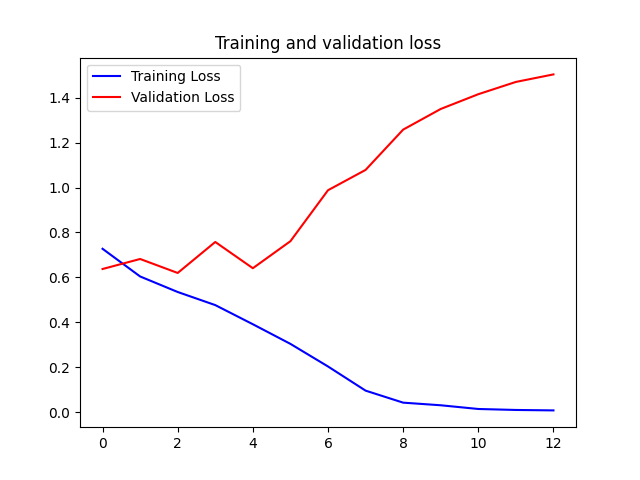
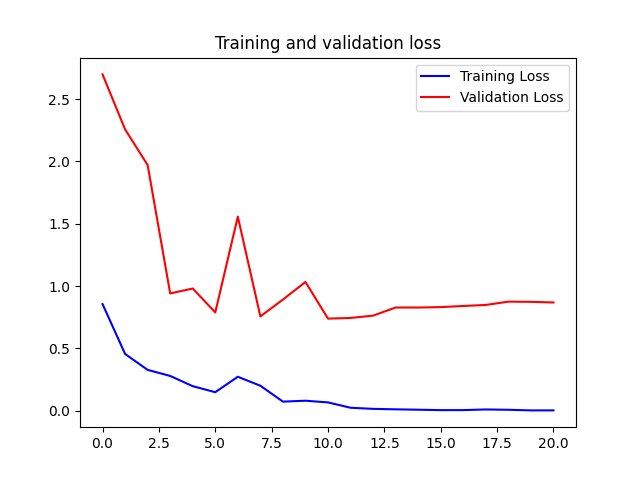
main - update README; update script;

diff --git a/run_all.py b/run_all.py
@@ -68,21 +68,51 @@ for with_data_augmentation in data_aug_train:
             batch_size=batch_size,
             shuffle=True,
             class_mode='binary')
-
-        # %%
+        #%%
         # Iniciar, construir e treinar o modelo
-        early_stop = EarlyStopping(
-            patience=10,
-            verbose=1,
-        )
-        learning_rate_reduction = ReduceLROnPlateau(
-            monitor='val_accuracy',
-            patience=2,
-            verbose=1,
-            factor=0.5,
-            min_lr=0.00001
-        )
-        callbacks = [early_stop, learning_rate_reduction]
+
+        # MLP
+        model_mlp = keras.Sequential([
+            keras.layers.Flatten(input_shape=(img_size, img_size, 3)),
+            keras.layers.Dense(512, activation='relu'),
+            keras.layers.Dense(1, activation='sigmoid')
+        ])
+
+        # CNN
+        model_cnn = keras.Sequential([
+            keras.layers.Conv2D(16, (3, 3), activation='relu', input_shape=(img_size, img_size, 3)),
+            keras.layers.MaxPool2D((2, 2)),
+
+            keras.layers.Conv2D(32, (3, 3), activation='relu'),
+            keras.layers.MaxPool2D((2, 2)),
+
+            keras.layers.Conv2D(64, (3, 3), activation='relu'),
+            keras.layers.MaxPool2D((2, 2)),
+
+            keras.layers.Flatten(),
+            keras.layers.Dense(512, activation='relu'),
+            keras.layers.Dense(1, activation='sigmoid')
+        ])
+
+        # CNN2
+        model_cnn2 = keras.Sequential([
+            keras.layers.Conv2D(16, (3, 3), activation='relu', input_shape=(img_size, img_size, 3)),
+            keras.layers.BatchNormalization(),
+            keras.layers.MaxPool2D((2, 2)),
+
+            keras.layers.Conv2D(32, (3, 3), activation='relu'),
+            keras.layers.BatchNormalization(),
+            keras.layers.MaxPool2D((2, 2)),
+
+            keras.layers.Conv2D(64, (3, 3), activation='relu'),
+            keras.layers.BatchNormalization(),
+            keras.layers.MaxPool2D((2, 2)),
+
+            keras.layers.Flatten(),
+            keras.layers.Dense(512, activation='relu'),
+            keras.layers.BatchNormalization(),
+            keras.layers.Dense(1, activation='sigmoid')
+        ])
 
         # CNN2_DPOT
         model_cnn2_dpout = keras.Sequential([
@@ -108,62 +138,33 @@ for with_data_augmentation in data_aug_train:
             keras.layers.Dense(1, activation='sigmoid')
         ])
 
-        # CNN2
-        model_cnn2 = keras.Sequential([
-            keras.layers.Conv2D(16, (3, 3), activation='relu', input_shape=(img_size, img_size, 3)),
-            keras.layers.BatchNormalization(),
-            keras.layers.MaxPool2D((2, 2)),
-
-            keras.layers.Conv2D(32, (3, 3), activation='relu'),
-            keras.layers.BatchNormalization(),
-            keras.layers.MaxPool2D((2, 2)),
-
-            keras.layers.Conv2D(64, (3, 3), activation='relu'),
-            keras.layers.BatchNormalization(),
-            keras.layers.MaxPool2D((2, 2)),
-
-            keras.layers.Flatten(),
-            keras.layers.Dense(512, activation='relu'),
-            keras.layers.BatchNormalization(),
-            keras.layers.Dense(1, activation='sigmoid')
-        ])
-
-        # CNN
-        model_cnn = keras.Sequential([
-            keras.layers.Conv2D(16, (3, 3), activation='relu', input_shape=(img_size, img_size, 3)),
-            keras.layers.MaxPool2D((2, 2)),
-
-            keras.layers.Conv2D(32, (3, 3), activation='relu'),
-            keras.layers.MaxPool2D((2, 2)),
-
-            keras.layers.Conv2D(64, (3, 3), activation='relu'),
-            keras.layers.MaxPool2D((2, 2)),
-
-            keras.layers.Flatten(),
-            keras.layers.Dense(512, activation='relu'),
-            keras.layers.Dense(1, activation='sigmoid')
-        ])
-
-        # MLP
-        model_mlp = keras.Sequential([
-            keras.layers.Flatten(input_shape=(img_size, img_size, 3)),
-            keras.layers.Dense(512, activation='relu'),
-            keras.layers.Dense(1, activation='sigmoid')
-        ])
-
         if model_name == "mlp":
             model = model_mlp
         elif model_name == "cnn":
             model = model_cnn
         elif model_name == "cnn2":
-            model = model_cnn
+            model = model_cnn2
         elif model_name == "cnn2_dp":
             model = model_cnn2_dpout
         else:
             print("unknown model name")
             sys.exit()
+
         model.compile(optimizer='adam', loss='binary_crossentropy', metrics=['accuracy'])
         model.summary()
+
+        early_stop = EarlyStopping(
+            patience=10,
+            verbose=1,
+        )
+        learning_rate_reduction = ReduceLROnPlateau(
+            monitor='val_accuracy',
+            patience=2,
+            verbose=1,
+            factor=0.5,
+            min_lr=0.00001
+        )
+        callbacks = [early_stop, learning_rate_reduction]
 
         history = model.fit(train_iterator,
                             validation_data=validation_iterator,
@@ -172,38 +173,12 @@ for with_data_augmentation in data_aug_train:
                             validation_steps=validation_iterator.n // batch_size,
                             callbacks=callbacks
                             )
-        # %%
-        # Avaliar o modelo
-        test_loss, test_acc = model.evaluate(validation_iterator, steps=validation_iterator.n // batch_size)
-        print('Test Loss:', test_loss)
-        print('Test Accuracy:', test_acc)
-        # %%
-        predictions = (model.predict(validation_iterator) >= 0.5).astype(int)
-        # %%
-        cm = confusion_matrix(validation_iterator.labels, predictions, labels=[0, 1])
-        clr = classification_report(validation_iterator.labels, predictions, labels=[0, 1], target_names=["CAT", "DOG"])
-
+        #%%
         results_folder = './results/'
         file_name_base = model_name
+        #%%
+        # Construir gráficos de treinamento
 
-        plt.figure(figsize=(6, 6))
-        sns.heatmap(cm, annot=True, fmt='g', vmin=0, cmap='Blues', cbar=False)
-        plt.xticks(ticks=[0.5, 1.5], labels=["CAT", "DOG"])
-        plt.yticks(ticks=[0.5, 1.5], labels=["CAT", "DOG"])
-        plt.xlabel("Predicted")
-        plt.ylabel("Actual")
-        plt.title("Confusion Matrix")
-        metric = '-cfmatrix'
-        name_file = file_name_base + metric
-        if with_data_augmentation:
-            name_file += '-dataaug'
-        name_file = name_file + '.png'
-        matrix_file_name = name_file
-        plt.savefig(results_folder + matrix_file_name)
-        plt.show()
-
-        print("Classification Report:\n----------------------\n", clr)
-        # %%
         acc = history.history['accuracy']
         val_acc = history.history['val_accuracy']
         y_len = range(len(acc))
@@ -254,8 +229,35 @@ for with_data_augmentation in data_aug_train:
         acc_vs_loss_file_name += '.png'
         plt.savefig(results_folder + acc_vs_loss_file_name)
         plt.show()
-        # %%
-        # Append-adds at last
+        #%%
+        # Avaliar o modelo
+        test_loss, test_acc = model.evaluate(validation_iterator, steps=validation_iterator.n // batch_size)
+        print('Test Loss:', test_loss)
+        print('Test Accuracy:', test_acc)
+        predictions = (model.predict(validation_iterator) >= 0.5).astype(int)
+        cm = confusion_matrix(validation_iterator.labels, predictions, labels=[0, 1])
+        clr = classification_report(validation_iterator.labels, predictions, labels=[0, 1], target_names=["CAT", "DOG"])
+
+        file_name_base = model_name
+
+        plt.figure(figsize=(6, 6))
+        sns.heatmap(cm, annot=True, fmt='g', vmin=0, cmap='Blues', cbar=False)
+        plt.xticks(ticks=[0.5, 1.5], labels=["CAT", "DOG"])
+        plt.yticks(ticks=[0.5, 1.5], labels=["CAT", "DOG"])
+        plt.xlabel("Predicted")
+        plt.ylabel("Actual")
+        plt.title("Confusion Matrix")
+        metric = '-cfmatrix'
+        name_file = file_name_base + metric
+        if with_data_augmentation:
+            name_file += '-dataaug'
+        name_file = name_file + '.png'
+        matrix_file_name = name_file
+        plt.savefig(results_folder + matrix_file_name)
+        plt.show()
+
+        print("Classification Report:\n----------------------\n", clr)
+        #%%
         model_def = model_name.upper()
         if with_data_augmentation:
             model_def += "-DATAAUG"

diff --git a/README.md b/README.md
@@ -228,8 +228,8 @@ weighted avg       0.49      0.49      0.49      1000
 #### CNN2
 
 ```
-Test Accuracy: 0.7120000123977661
-Test Loss: 1.5042719841003418
+Test Accuracy: 0.7580000162124634
+Test Loss: 0.8685814142227173
 ```
 
 ![](results/cnn2-cfmatrix.png)
@@ -237,12 +237,12 @@ Test Loss: 1.5042719841003418
 ```
               precision    recall  f1-score   support
 
-         CAT       0.52      0.53      0.53       500
-         DOG       0.52      0.52      0.52       500
+         CAT       0.53      0.53      0.53       500
+         DOG       0.53      0.52      0.52       500
 
-    accuracy                           0.52      1000
-   macro avg       0.52      0.52      0.52      1000
-weighted avg       0.52      0.52      0.52      1000
+    accuracy                           0.53      1000
+   macro avg       0.53      0.53      0.53      1000
+weighted avg       0.53      0.53      0.53      1000
 ```
 
 #### CNN2 with Dropout
@@ -336,21 +336,21 @@ weighted avg       0.49      0.49      0.49      1000
 #### CNN2-DATAAUG
 
 ```
-Test Accuracy: 0.7559999823570251
-Test Loss: 0.49308863282203674
+Test Accuracy: 0.7829999923706055
+Test Loss: 0.4312402009963989
 ```
 
-![](results/cnn2-cfmatrix-dataaug.png)
+![](cnn2-cfmatrix-dataaug.png)
 
 ```
               precision    recall  f1-score   support
 
-         CAT       0.48      0.48      0.48       500
-         DOG       0.48      0.48      0.48       500
+         CAT       0.53      0.58      0.55       500
+         DOG       0.54      0.49      0.51       500
 
-    accuracy                           0.48      1000
-   macro avg       0.48      0.48      0.48      1000
-weighted avg       0.48      0.48      0.48      1000
+    accuracy                           0.53      1000
+   macro avg       0.53      0.53      0.53      1000
+weighted avg       0.53      0.53      0.53      1000
 ```
 
 #### CNN2_DP-DATAAUG

diff --git a/results/RESULTS-CNN2-DATAAUG.md b/results/RESULTS-CNN2-DATAAUG.md
@@ -1,8 +1,8 @@
 ## CNN2-DATAAUG
 
 ```
-Test Accuracy: 0.7559999823570251
-Test Loss: 0.49308863282203674
+Test Accuracy: 0.7829999923706055
+Test Loss: 0.4312402009963989
 ```
 
 ![](cnn2-cfmatrix-dataaug.png)
@@ -10,12 +10,12 @@ Test Loss: 0.49308863282203674
 ```
               precision    recall  f1-score   support
 
-         CAT       0.48      0.48      0.48       500
-         DOG       0.48      0.48      0.48       500
+         CAT       0.53      0.58      0.55       500
+         DOG       0.54      0.49      0.51       500
 
-    accuracy                           0.48      1000
-   macro avg       0.48      0.48      0.48      1000
-weighted avg       0.48      0.48      0.48      1000
+    accuracy                           0.53      1000
+   macro avg       0.53      0.53      0.53      1000
+weighted avg       0.53      0.53      0.53      1000
 ```
 
 ![](cnn2-acc-dataaug.png)

diff --git a/results/RESULTS-CNN2.md b/results/RESULTS-CNN2.md
@@ -1,8 +1,8 @@
 ## CNN2
 
 ```
-Test Accuracy: 0.7120000123977661
-Test Loss: 1.5042719841003418
+Test Accuracy: 0.7580000162124634
+Test Loss: 0.8685814142227173
 ```
 
 ![](cnn2-cfmatrix.png)
@@ -10,12 +10,12 @@ Test Loss: 1.5042719841003418
 ```
               precision    recall  f1-score   support
 
-         CAT       0.52      0.53      0.53       500
-         DOG       0.52      0.52      0.52       500
+         CAT       0.53      0.53      0.53       500
+         DOG       0.53      0.52      0.52       500
 
-    accuracy                           0.52      1000
-   macro avg       0.52      0.52      0.52      1000
-weighted avg       0.52      0.52      0.52      1000
+    accuracy                           0.53      1000
+   macro avg       0.53      0.53      0.53      1000
+weighted avg       0.53      0.53      0.53      1000
 ```
 
 ![](cnn2-acc.png)
